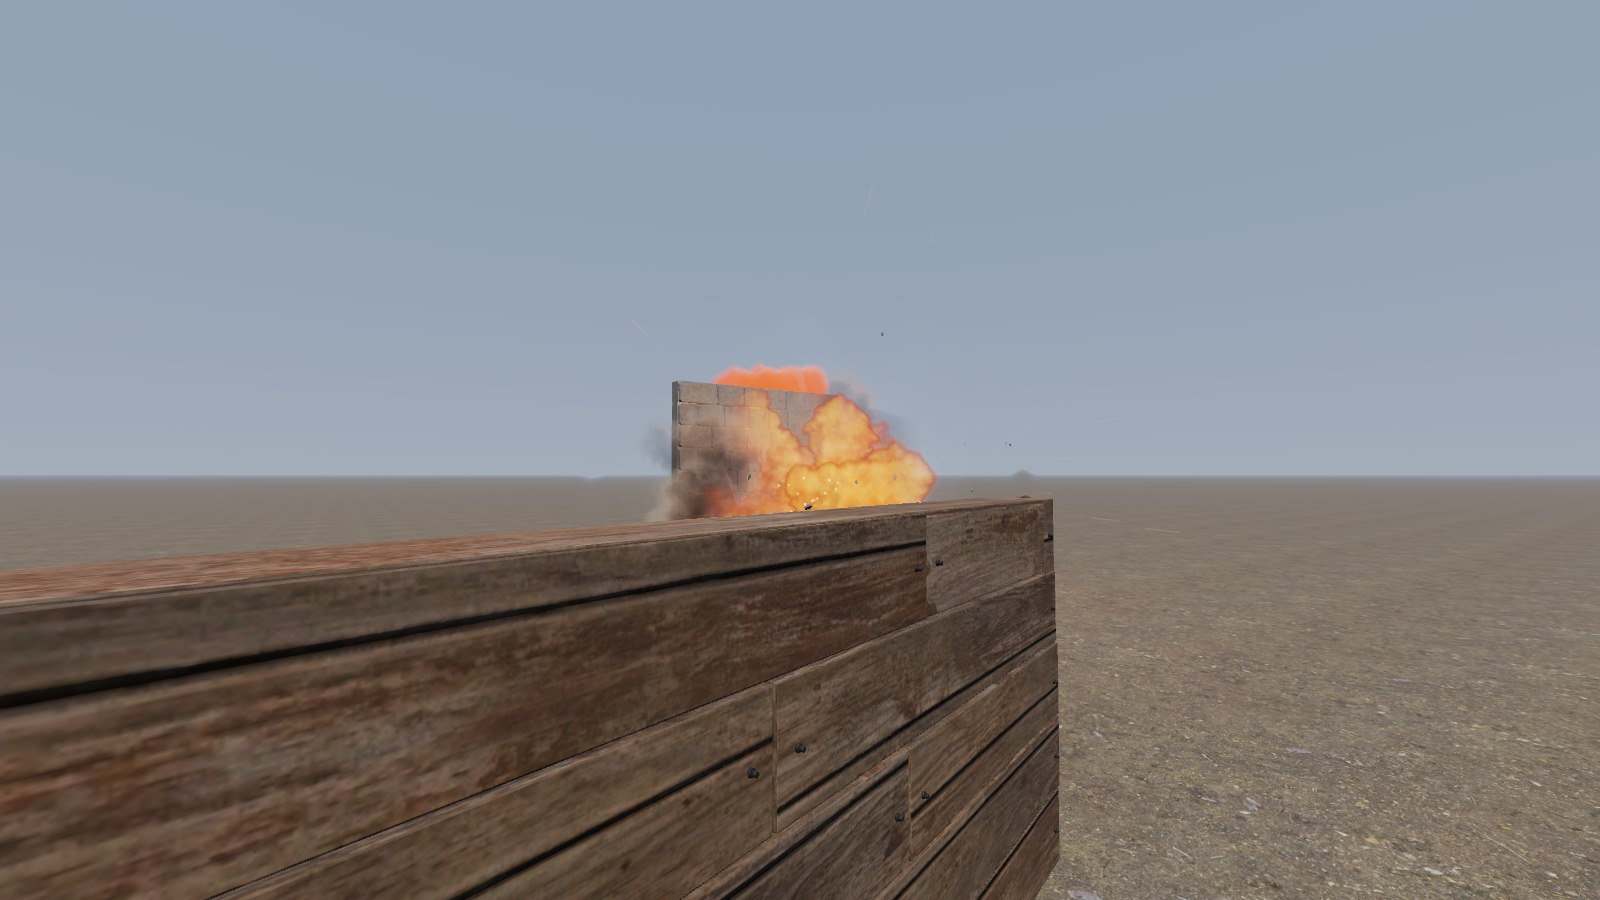
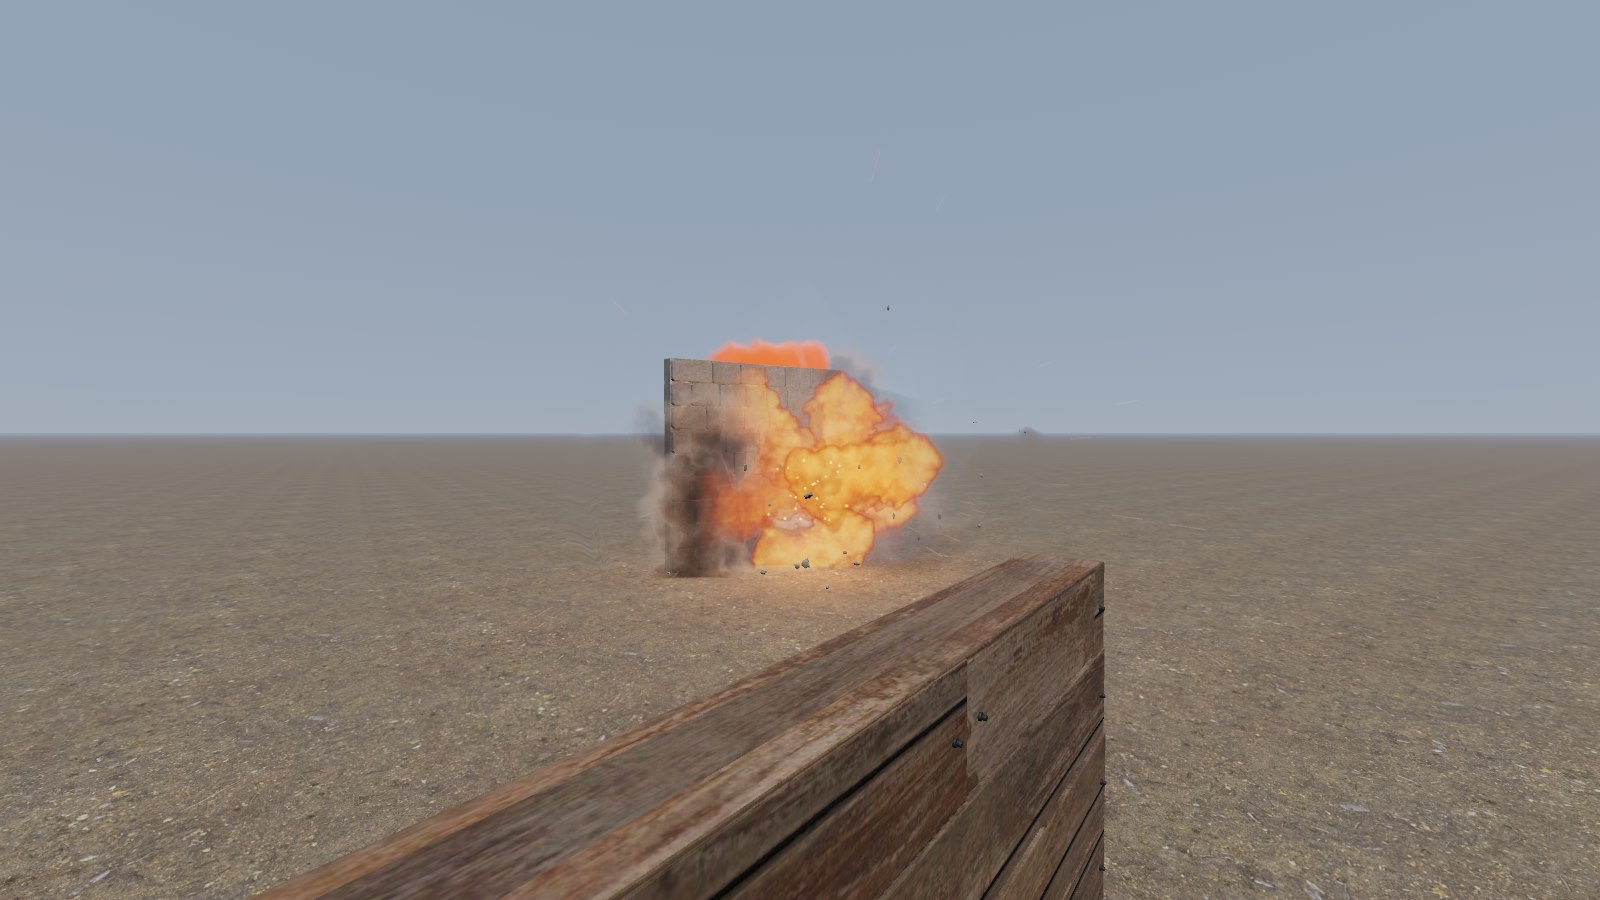
Effects: brighter arrow trail, tracer sheet framed close, explosion scene from behind cover

Changed region(s): [[0.0, 0.3733, 1.0, 1.0]]

diff --git a/game/scripts/Fx/FxViewer.Sheet.cs b/game/scripts/Fx/FxViewer.Sheet.cs
@@ -144,6 +144,7 @@ public partial class FxViewer
     {
         "muzzle" => def.Key.Contains("rocket", StringComparison.Ordinal) ? 0.8f : 0.36f,
         "explosion" => 0.9f,
+        "tracer" => def.Key == "trail.rocket" ? 0.4f : 0.3f,
         "impact" => def.Stage is "flesh" ? 0.45f : def.Stage is "water" or "dirt" or "grass" or "sand" ? 0.38f : 0.42f,
         "blood" => def.Key == "blood.drip" ? 0.45f : 0.6f,
         "gather" => def.Key is "gather.tree-fall" or "gather.node-break" ? 0.6f : 0.55f,

diff --git a/game/scripts/Fx/FxViewer.Action.cs b/game/scripts/Fx/FxViewer.Action.cs
@@ -290,8 +290,8 @@ public partial class FxViewer
             charge.Position = at;
             AddChild(charge);
         }
-        _camera.Position = new Vector3(-5.5f, 1.6f, -2.2f);
-        _camera.LookAt(new Vector3(0.4f, 2.0f, -10.5f), Vector3.Up);
+        _camera.Position = new Vector3(-5.2f, 1.95f, -2.6f);
+        _camera.LookAt(new Vector3(0.4f, 1.7f, -10.5f), Vector3.Up);
         At(1.0, () =>
         {
             charge?.QueueFree();
